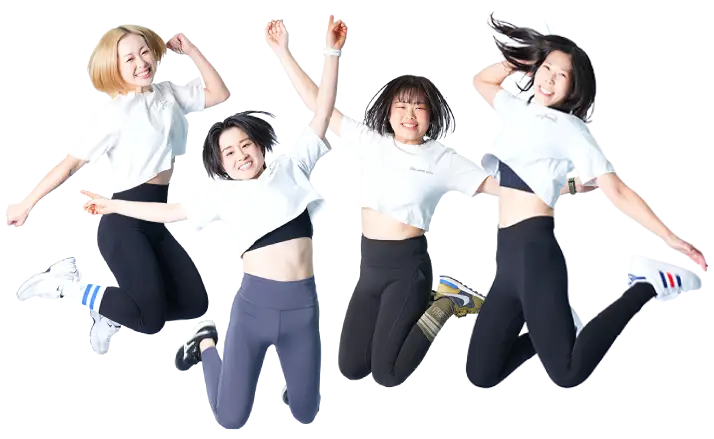
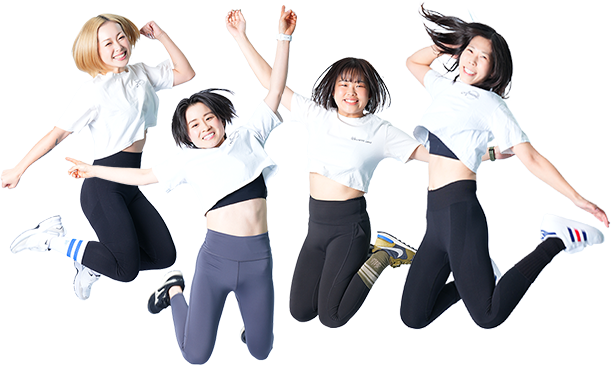
Refactor code structure for improved readability and maintainability

diff --git a/index.html b/index.html
@@ -337,7 +337,7 @@
         <div class="p-top__slides animate">
           <div class="c-hero-animate animate" id="c-hero-animate">
             <picture>
-              <source srcset="assets/img/common/bg_hero1_sp.png" media="(max-width:650px)">
+              <source srcset="assets/img/common/bg_hero1_sp.webp" media="(max-width:650px)">
               <img src="assets/img/common/bg_hero1.webp" alt="">
             </picture>
             <div class="c-hero-animate__panel c-hero-animate__panel-left"></div>
@@ -348,7 +348,7 @@
         <div class="p-top__slides animate">
           <div class="c-hero-animate animate" id="c-hero-animate">
             <picture>
-              <source srcset="assets/img/common/bg_hero2_sp.png" media="(max-width:650px)">
+              <source srcset="assets/img/common/bg_hero2_sp.webp" media="(max-width:650px)">
               <img src="assets/img/common/bg_hero2.webp" alt="">
             </picture>
             <div class="c-hero-animate__panel c-hero-animate__panel-left"></div>
@@ -360,7 +360,7 @@
         <div class="p-top__slides animate">
           <div class="c-hero-animate animate" id="c-hero-animate">
             <picture>
-              <source srcset="assets/img/common/bg_hero3_sp.png" media="(max-width:650px)">
+              <source srcset="assets/img/common/bg_hero3_sp.webp" media="(max-width:650px)">
               <img src="assets/img/common/bg_hero3.webp" alt="">
             </picture>
             <div class="c-hero-animate__panel c-hero-animate__panel-left"></div>
@@ -372,7 +372,7 @@
         <div class="p-top__slides animate">
           <div class="c-hero-animate animate" id="c-hero-animate">
             <picture>
-              <source srcset="assets/img/common/bg_hero4_sp.png" media="(max-width:650px)">
+              <source srcset="assets/img/common/bg_hero4_sp.webp" media="(max-width:650px)">
               <img src="assets/img/common/bg_hero4.webp" alt="">
             </picture>
             <div class="c-hero-animate__panel c-hero-animate__panel-left"></div>
@@ -384,7 +384,7 @@
         <div class="p-top__slides animate">
           <div class="c-hero-animate animate" id="c-hero-animate">
             <picture>
-              <source srcset="assets/img/common/bg_hero5_sp.png" media="(max-width:650px)">
+              <source srcset="assets/img/common/bg_hero5_sp.webp" media="(max-width:650px)">
               <img src="assets/img/common/bg_hero5.webp" alt="">
             </picture>
             <div class="c-hero-animate__panel c-hero-animate__panel-left"></div>

diff --git a/storelist/[slag]/index.html b/storelist/[slag]/index.html
@@ -832,7 +832,7 @@
             <div class="p-storedetail__opening-jump">
               <img
                 class="c-animation-jump"
-                src="assets/img/storedetail/img_storedetail_people01.png"
+                src="assets/img/storedetail/img_storedetail_people01.webp"
                 alt="オープニング人物"
               >
             </div>
@@ -1044,12 +1044,12 @@
               <div class="p-storedetail__introduction-people" aria-hidden="true">
                 <img
                   class="c-animation-jump p-storedetail__introduction-people-img p-storedetail__introduction-people-img--01"
-                  src="assets/img/storedetail/img_storedetail_people02.png"
+                  src="assets/img/storedetail/img_storedetail_people02.webp"
                   alt=""
                 >
                 <img
                   class="c-animation-jump p-storedetail__introduction-people-img p-storedetail__introduction-people-img--02"
-                  src="assets/img/storedetail/img_storedetail_people03.png"
+                  src="assets/img/storedetail/img_storedetail_people03.webp"
                   alt=""
                 >
               </div>
@@ -1955,7 +1955,7 @@
                 class="p-price__speak-bubble--01 c-speech-bubble"
               >
               <img
-                src="assets/img/price/img_price_speak_person01.png"
+                src="assets/img/price/img_price_speak_person01.webp"
                 alt="お客様の声 人物画像"
                 class="p-price__speak-person--01 c-animation-jump"
               >

diff --git a/assets/css/global.css b/assets/css/global.css
@@ -2748,7 +2748,7 @@ a {
   align-items: center;
   justify-content: center;
   padding: 72px 16px;
-  background-image: url("../img/top/bg_banner.png");
+  background-image: url("../img/top/bg_banner.webp");
   background-repeat: no-repeat;
   background-size: cover;
 }
@@ -2802,7 +2802,7 @@ a {
   align-items: center;
   justify-content: center;
   padding: 72px 16px;
-  background-image: url("../img/top/bg_banner.png");
+  background-image: url("../img/top/bg_banner.webp");
   background-repeat: no-repeat;
   background-size: cover;
 }
@@ -2850,7 +2850,7 @@ a {
   align-items: center;
   justify-content: center;
   padding: 72px 16px;
-  background-image: url("../img/top/bg_banner.png");
+  background-image: url("../img/top/bg_banner.webp");
   background-repeat: no-repeat;
   background-size: cover;
 }
@@ -5426,7 +5426,7 @@ a {
   align-items: center;
   justify-content: center;
   padding: 72px 16px;
-  background-image: url("../img/top/bg_banner.png");
+  background-image: url("../img/top/bg_banner.webp");
   background-repeat: no-repeat;
   background-size: cover;
 }

diff --git a/personal/index.html b/personal/index.html
@@ -334,7 +334,7 @@
           <div class="c-hero-animate animate" id="c-hero-animate">
             <picture>
               <source
-                srcset="../assets/img/common/bg_hero3_sp.png"
+                srcset="../assets/img/common/bg_hero3_sp.webp"
                 media="(max-width:650px)"
               >
               <img src="assets/img/common/bg_hero3.webp" alt="">
@@ -792,7 +792,7 @@
               class="p-personal-program__illustration-scroll p-personal-program__scroll c-reveal"
             >
               <img
-                src="assets/img/personal/img_personal_program_illustration02.png"
+                src="assets/img/personal/img_personal_program_illustration02.webp"
                 alt="パーソナルプログラム01"
                 class="p-personal-program__illustration"
               >

diff --git a/assets/scss/object/component/_footer-banner.scss b/assets/scss/object/component/_footer-banner.scss
@@ -7,7 +7,7 @@
   align-items: center;
   justify-content: center;
   padding: 72px 16px;
-  background-image: url("../img/top/bg_banner.png");
+  background-image: url("../img/top/bg_banner.webp");
   background-repeat: no-repeat;
   background-size: cover;
 }
@@ -56,7 +56,7 @@
   align-items: center;
   justify-content: center;
   padding: 72px 16px;
-  background-image: url("../img/top/bg_banner.png");
+  background-image: url("../img/top/bg_banner.webp");
   background-repeat: no-repeat;
   background-size: cover;
 }
@@ -99,7 +99,7 @@
   align-items: center;
   justify-content: center;
   padding: 72px 16px;
-  background-image: url("../img/top/bg_banner.png");
+  background-image: url("../img/top/bg_banner.webp");
   background-repeat: no-repeat;
   background-size: cover;
 }

diff --git a/price/index.html b/price/index.html
@@ -512,7 +512,7 @@
                 class="p-price__speak-bubble--01 c-speech-bubble"
               >
               <img
-                src="assets/img/price/img_price_speak_person01.png"
+                src="assets/img/price/img_price_speak_person01.webp"
                 alt="お客様の声 人物画像"
                 class="p-price__speak-person--01 c-animation-jump"
               >

diff --git a/about/index.html b/about/index.html
@@ -504,7 +504,7 @@
           <div class="c-hero-animate animate" id="c-hero-animate">
             <picture>
               <source
-                srcset="../assets/img/common/bg_hero1_sp.png"
+                srcset="../assets/img/common/bg_hero1_sp.webp"
                 media="(max-width:650px)"
               >
               <img src="assets/img/common/bg_hero1.webp" alt="">

diff --git a/sportip/index.html b/sportip/index.html
@@ -458,7 +458,7 @@
           <div class="c-hero-animate animate" id="c-hero-animate">
             <picture>
               <source
-                srcset="../assets/img/common/bg_hero2_sp.png"
+                srcset="../assets/img/common/bg_hero2_sp.webp"
                 media="(max-width:650px)"
               >
               <img src="assets/img/common/bg_hero2.webp" alt="">

diff --git a/medical/index.html b/medical/index.html
@@ -458,7 +458,7 @@
         <div class="c-hero-animate animate" id="c-hero-animate">
           <picture>
             <source
-              srcset="../assets/img/common/bg_hero4_sp.png"
+              srcset="../assets/img/common/bg_hero4_sp.webp"
               media="(max-width:650px)"
             >
             <img src="assets/img/common/bg_hero4.webp" alt="">

diff --git a/assets/scss/_global-responsive.scss b/assets/scss/_global-responsive.scss
@@ -1826,7 +1826,7 @@
   align-items: center;
   justify-content: center;
   padding: 72px 16px;
-  background-image: url("../img/top/bg_banner.png");
+  background-image: url("../img/top/bg_banner.webp");
   background-repeat: no-repeat;
   background-size: cover;
 }
